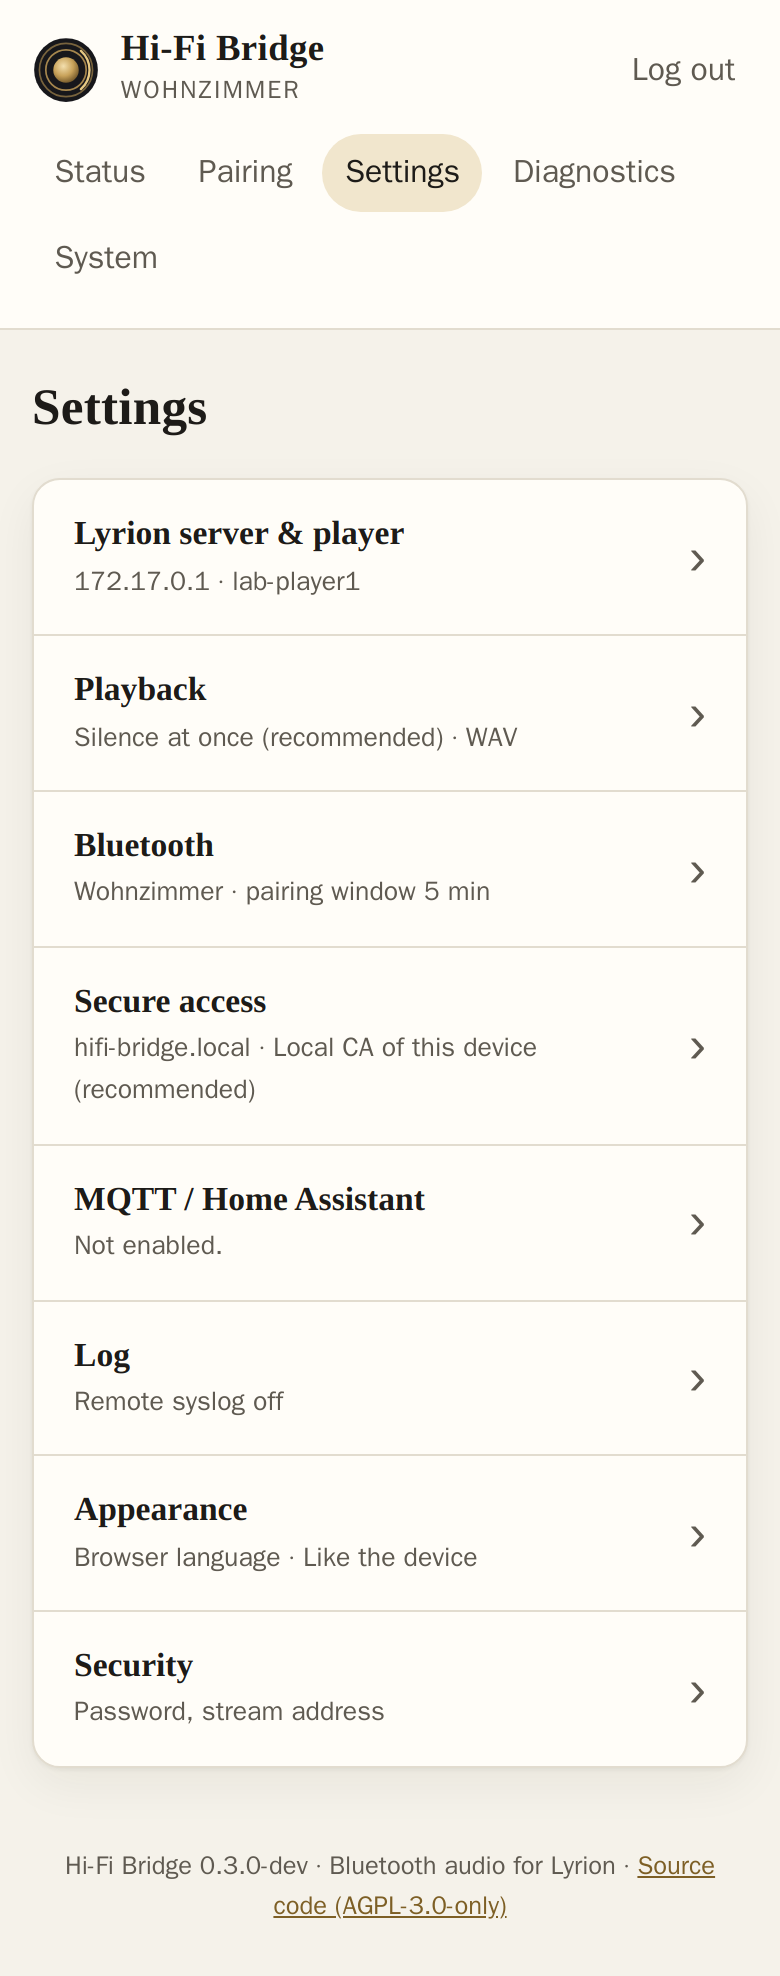
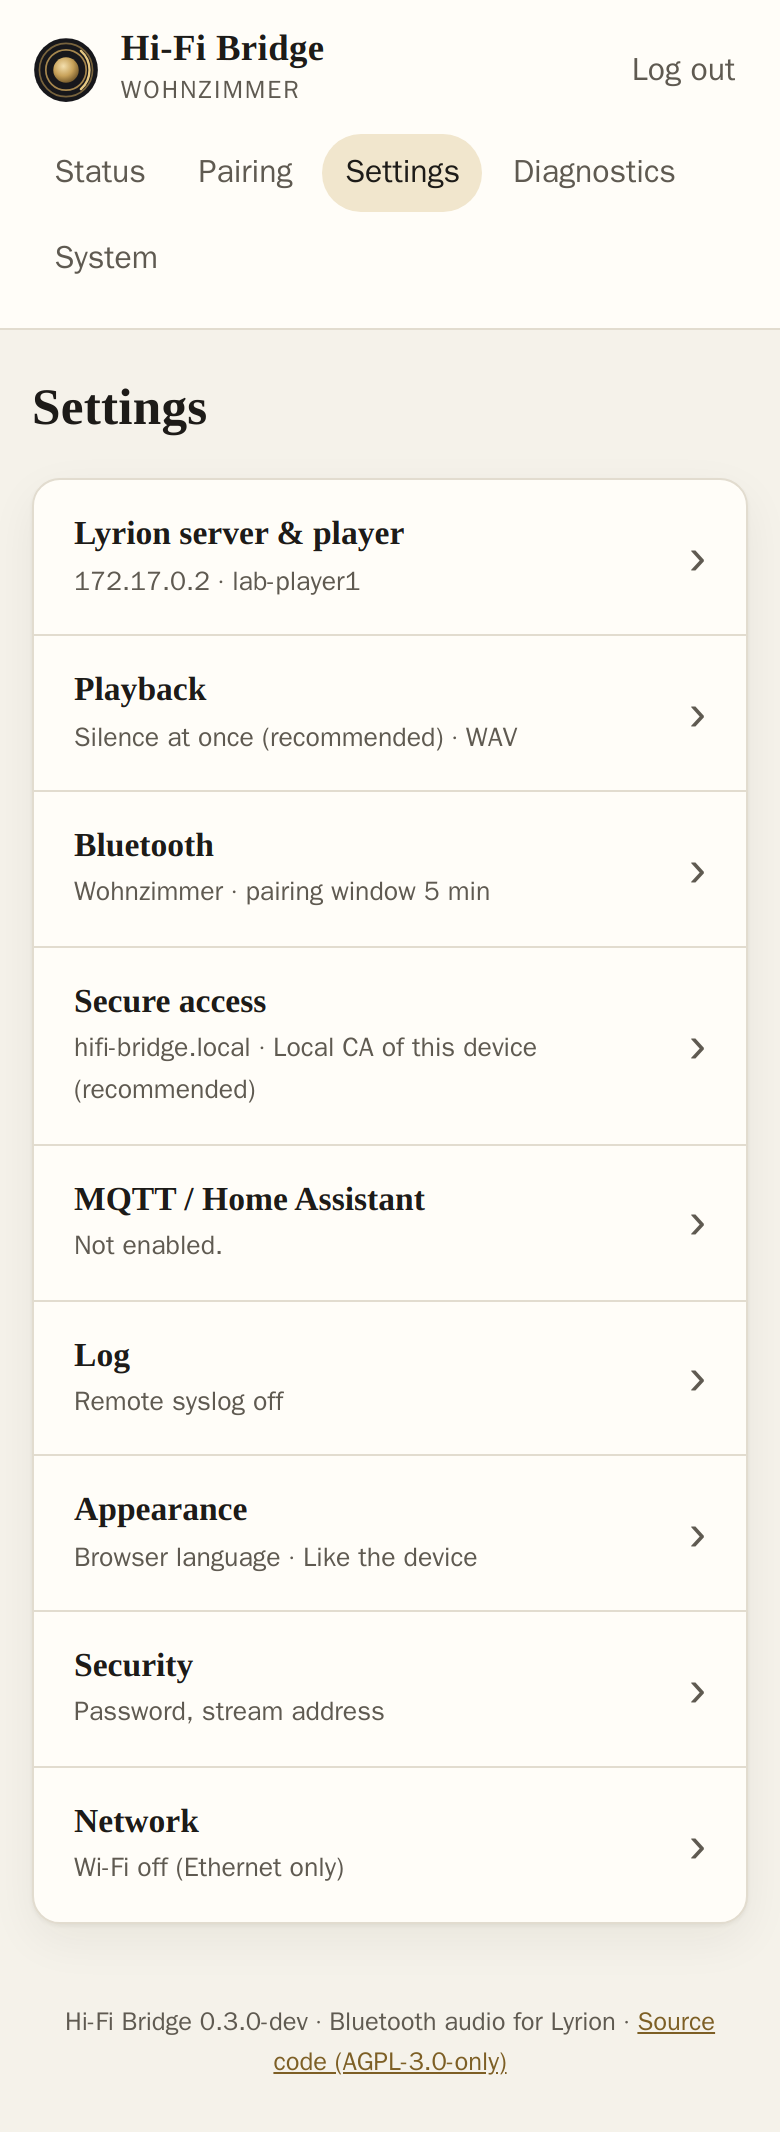
fix(net): accept only plain interface names; record the final evidence
Interface names from sysfs end up in nft/hostapd/dnsmasq/networkd files,
so names with quotes or spaces are ignored. Intentional group permissions of
the agent socket are annotated for bandit. Evidence: real-tool run, licence
reports with nftables, bandit report, regenerated network screenshots and
the settings overview with the new Network section.

Claude-Session: https://claude.ai/code/session_01XLoj7Q98E2B8cef3FG8JZw

diff --git a/bridge/btbridge/net/netsys.py b/bridge/btbridge/net/netsys.py
@@ -23,6 +23,7 @@ WPA_UNIT, HOSTAPD_UNIT, DHCP_UNIT = "hifi-net-wpa@{}.service", "hifi-net-hostapd
 NETWORKD_DIR = "/run/systemd/network"
 OUR_NETWORKD = ("10-hifi-ethernet.network", "11-hifi-wifi.network")
 TIMESYNC_FLAG = "/run/systemd/timesync/synchronized"
+IFNAME = re.compile(r"[A-Za-z0-9_.-]{1,15}")
 _counter = itertools.count(1)
 
 
@@ -185,7 +186,7 @@ def discover(sysfs: str = "/sys/class/net") -> tuple[list[str], str | None]:
         return [], None
     for n in names:
         base = os.path.join(sysfs, n)
-        if n == "lo":
+        if n == "lo" or not IFNAME.fullmatch(n):            # names go into nft/hostapd/dnsmasq/networkd files: no quotes, no spaces
             continue
         if os.path.exists(os.path.join(base, "phy80211")) or os.path.isdir(os.path.join(base, "wireless")):
             wlan = wlan or n

diff --git a/tests/unit/test_netsys.py b/tests/unit/test_netsys.py
@@ -95,7 +95,8 @@ def make_sysfs(root, spec):
 
 def test_discover_by_type_not_by_name(tmp_path):
     make_sysfs(str(tmp_path), {"lo": ("772", ""), "end0": ("1", "phys"), "enx0011": ("1", "phys"), "docker0": ("1", "virtual"),
-                               "wlan0": ("1", "wifi"), "wlan1": ("1", "wifi"), "broken": ("1", "phys")})
+                               "wlan0": ("1", "wifi"), "wlan1": ("1", "wifi"), "broken": ("1", "phys"), 'ev"il': ("1", "phys"),
+                               "wl an": ("1", "wifi")})
     os.unlink(os.path.join(str(tmp_path), "broken", "type"))
     assert S.discover(str(tmp_path)) == (["end0", "enx0011"], "wlan0")
     assert S.discover(str(tmp_path / "missing")) == ([], None)

diff --git a/bridge/btbridge/net/netagent.py b/bridge/btbridge/net/netagent.py
@@ -177,8 +177,8 @@ class Agent:
         if gid is not None and os.geteuid() == 0:
             os.chown(path, 0, gid)
             os.chown(self.run_dir, 0, gid)
-            os.chmod(self.run_dir, 0o750)
-        os.chmod(path, 0o660)
+            os.chmod(self.run_dir, 0o750)                       # nosec B103 - root:hifi-bridge; the bridge must reach the socket
+        os.chmod(path, 0o660)                                   # nosec B103 - root:hifi-bridge only; requests are uid-checked too
         s.listen(8)
         s.settimeout(0.5)
         self.sock = s

diff --git a/reports/evidence/os_licenses_rpizero2w_64.md b/reports/evidence/os_licenses_rpizero2w_64.md
@@ -1,6 +1,6 @@
 # Target packages and licences - rpizero2w_64
 
-Generated by os/tools/license_report.py from `make show-info` (Buildroot 2026.02.x @ 679b9ea). 48 target packages, 0 to review.
+Generated by os/tools/license_report.py from `make show-info` (Buildroot 2026.02.x @ 679b9ea). 52 target packages, 0 to review.
 
 | Package | Version | Licence (Buildroot) | Policy |
 |---|---|---|---|
@@ -24,6 +24,8 @@ Generated by os/tools/license_report.py from `make show-info` (Buildroot 2026.02
 | libdaemon | 0.14 | LGPL-2.1+ | ok |
 | libffi | 3.4.8 | MIT | ok |
 | libglib2 | 2.86.5 | LGPL-2.1+ | ok |
+| libmnl | 1.0.5 | LGPL-2.1+ | ok |
+| libnftnl | 1.3.0 | GPL-2.0+ | ok |
 | libnl | 3.11.0 | LGPL-2.1+ | ok |
 | libopenssl | 3.6.2 | Apache-2.0 | ok |
 | libsndfile | 1.2.2 | LGPL-2.1+ | ok |
@@ -31,6 +33,8 @@ Generated by os/tools/license_report.py from `make show-info` (Buildroot 2026.02
 | libzlib | 1.3.2 | Zlib | ok |
 | linux | custom | GPL-2.0 | ok |
 | lua | 5.4.8 | MIT | ok |
+| nftables | 1.1.4 | GPL-2.0 | ok |
+| nftables-python | 1.1.4 | GPL-2.0 | ok |
 | pcre2 | 10.47 | BSD-3-Clause | ok |
 | pipewire | 1.2.8 | MIT, LGPL-2.1+ (libspa-alsa), GPL-2.0 (libjackserver) | ok |
 | python-jeepney | 0.9.0 | MIT | ok |

diff --git a/reports/evidence/os_licenses_rpi3_64.md b/reports/evidence/os_licenses_rpi3_64.md
@@ -1,6 +1,6 @@
 # Target packages and licences - rpi3_64
 
-Generated by os/tools/license_report.py from `make show-info` (Buildroot 2026.02.x @ 679b9ea). 48 target packages, 0 to review.
+Generated by os/tools/license_report.py from `make show-info` (Buildroot 2026.02.x @ 679b9ea). 52 target packages, 0 to review.
 
 | Package | Version | Licence (Buildroot) | Policy |
 |---|---|---|---|
@@ -24,6 +24,8 @@ Generated by os/tools/license_report.py from `make show-info` (Buildroot 2026.02
 | libdaemon | 0.14 | LGPL-2.1+ | ok |
 | libffi | 3.4.8 | MIT | ok |
 | libglib2 | 2.86.5 | LGPL-2.1+ | ok |
+| libmnl | 1.0.5 | LGPL-2.1+ | ok |
+| libnftnl | 1.3.0 | GPL-2.0+ | ok |
 | libnl | 3.11.0 | LGPL-2.1+ | ok |
 | libopenssl | 3.6.2 | Apache-2.0 | ok |
 | libsndfile | 1.2.2 | LGPL-2.1+ | ok |
@@ -31,6 +33,8 @@ Generated by os/tools/license_report.py from `make show-info` (Buildroot 2026.02
 | libzlib | 1.3.2 | Zlib | ok |
 | linux | custom | GPL-2.0 | ok |
 | lua | 5.4.8 | MIT | ok |
+| nftables | 1.1.4 | GPL-2.0 | ok |
+| nftables-python | 1.1.4 | GPL-2.0 | ok |
 | pcre2 | 10.47 | BSD-3-Clause | ok |
 | pipewire | 1.2.8 | MIT, LGPL-2.1+ (libspa-alsa), GPL-2.0 (libjackserver) | ok |
 | python-jeepney | 0.9.0 | MIT | ok |

diff --git a/reports/evidence/os_licenses_rpi4_64.md b/reports/evidence/os_licenses_rpi4_64.md
@@ -1,6 +1,6 @@
 # Target packages and licences - rpi4_64
 
-Generated by os/tools/license_report.py from `make show-info` (Buildroot 2026.02.x @ 679b9ea). 48 target packages, 0 to review.
+Generated by os/tools/license_report.py from `make show-info` (Buildroot 2026.02.x @ 679b9ea). 52 target packages, 0 to review.
 
 | Package | Version | Licence (Buildroot) | Policy |
 |---|---|---|---|
@@ -24,6 +24,8 @@ Generated by os/tools/license_report.py from `make show-info` (Buildroot 2026.02
 | libdaemon | 0.14 | LGPL-2.1+ | ok |
 | libffi | 3.4.8 | MIT | ok |
 | libglib2 | 2.86.5 | LGPL-2.1+ | ok |
+| libmnl | 1.0.5 | LGPL-2.1+ | ok |
+| libnftnl | 1.3.0 | GPL-2.0+ | ok |
 | libnl | 3.11.0 | LGPL-2.1+ | ok |
 | libopenssl | 3.6.2 | Apache-2.0 | ok |
 | libsndfile | 1.2.2 | LGPL-2.1+ | ok |
@@ -31,6 +33,8 @@ Generated by os/tools/license_report.py from `make show-info` (Buildroot 2026.02
 | libzlib | 1.3.2 | Zlib | ok |
 | linux | custom | GPL-2.0 | ok |
 | lua | 5.4.8 | MIT | ok |
+| nftables | 1.1.4 | GPL-2.0 | ok |
+| nftables-python | 1.1.4 | GPL-2.0 | ok |
 | pcre2 | 10.47 | BSD-3-Clause | ok |
 | pipewire | 1.2.8 | MIT, LGPL-2.1+ (libspa-alsa), GPL-2.0 (libjackserver) | ok |
 | python-jeepney | 0.9.0 | MIT | ok |
